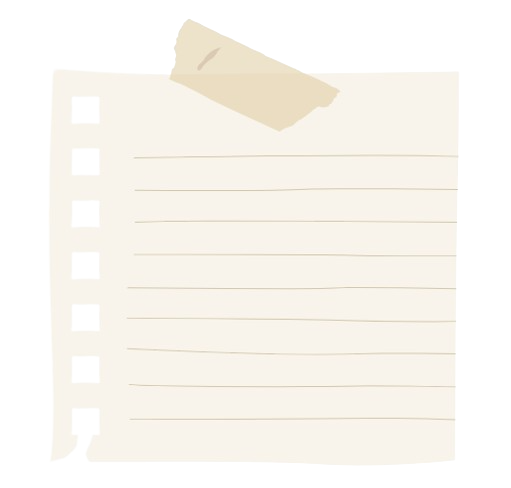
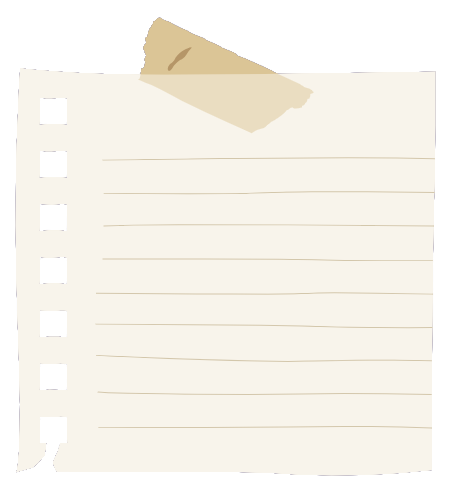
design: 회원가입 모달창 이미지 수정

diff --git a/frontend/src/components/JoinModal/index.tsx b/frontend/src/components/JoinModal/index.tsx
@@ -13,8 +13,8 @@ const JoinModal: React.FC<ModalProps> = ({ onClose }) => {
   return (
     <div className="fixed top-0 left-0 right-0 bottom-0 flex items-center justify-center bg-black bg-opacity-50 z-50 font-Omu">
       <div className="relative">
-        <img className="w-[35rem] h-[40rem]" src={noteImg3} />
-        <div className="flex flex-col w-full h-full bg-red-200 top-0 right-0 absolute pr-20 pl-28 pt-28 pb-8">
+        <img className="w-[30rem] h-[40rem]" src={noteImg3} />
+        <div className="flex flex-col w-full h-full bg-red-200 top-0 right-0 absolute pr-12 pl-20 pt-28 pb-8">
           <span className="close flex justify-end" onClick={onClose}>
             <svg
               xmlns="http://www.w3.org/2000/svg"
